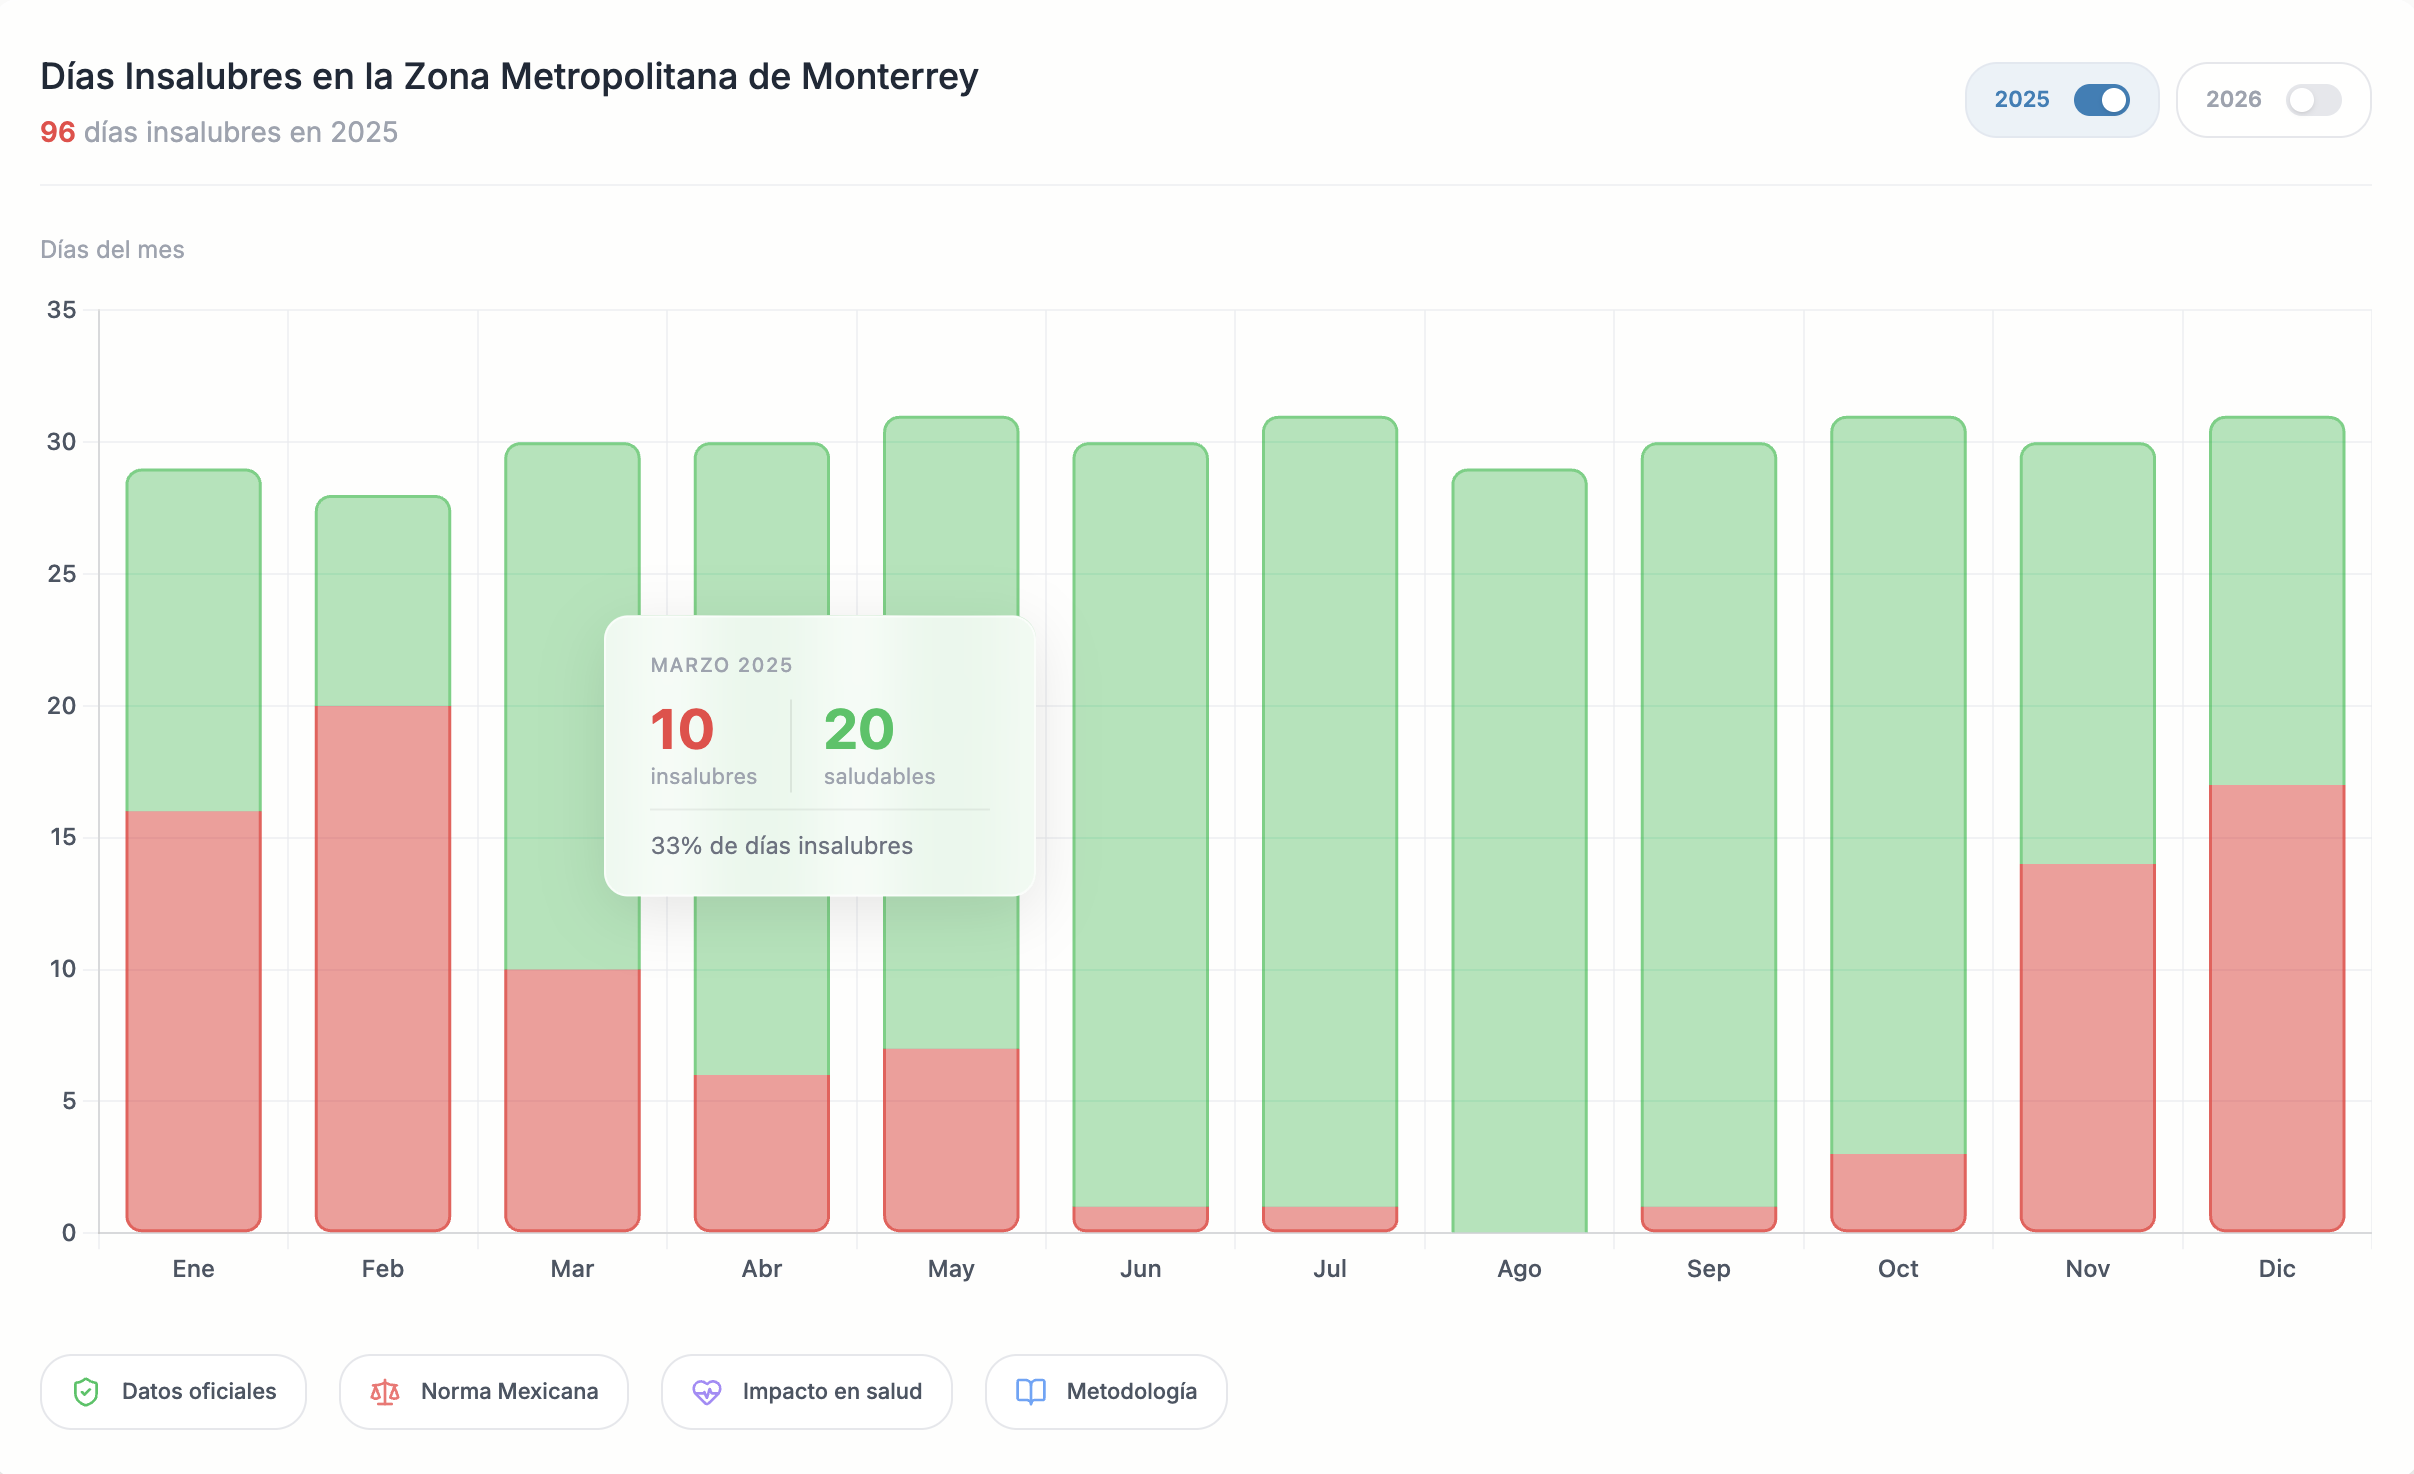
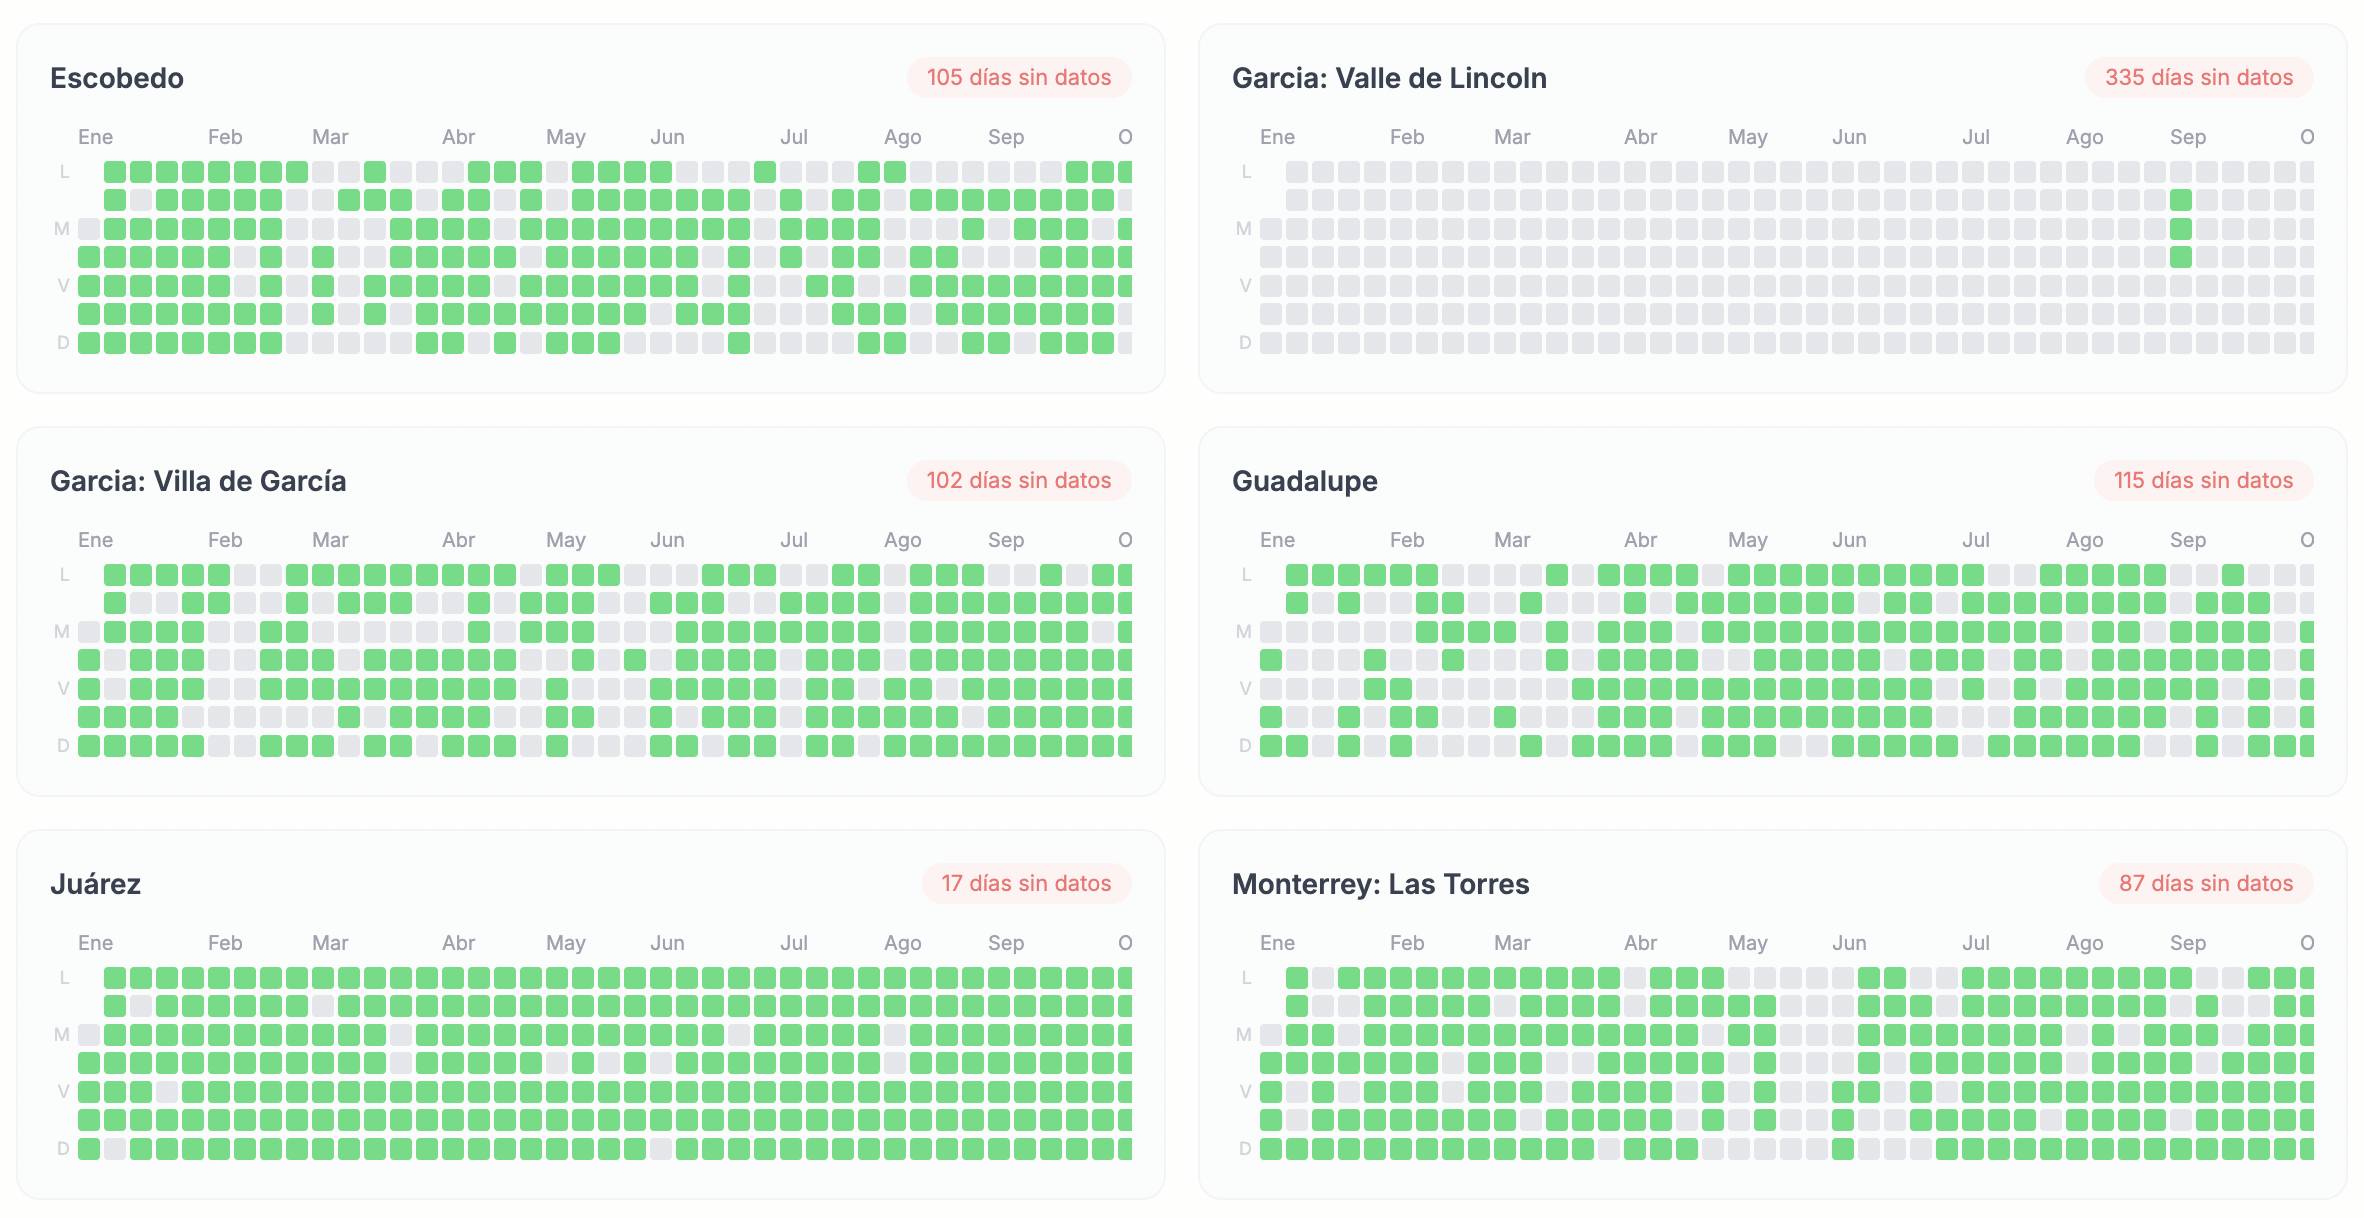
Add projects section to home page with OCCAMM as first project
- New alternating card layout with image carousel and gradient bg
- ProjectImage component for cycling multiple images per project
- OCCAMM project with description, subtitle, and 2 data screenshots

diff --git a/src/app/page.tsx b/src/app/page.tsx
@@ -1,111 +1,135 @@
 import Logo from "@/components/Logo";
 import GrainOverlay from "@/components/GrainOverlay";
+import ProjectImage from "@/components/ProjectImage";
 
 const projects = [
   {
     number: "01",
     tags: "Visualización de datos · Calidad del Aire",
-    title: "Observatorio del Aire",
-    client: "OCCAMM · Monterrey, México",
+    title: "OCCAMM",
+    subtitle: "Observatorio Ciudadano de la Calidad del Aire",
+    client: "OCCAMM",
     description:
-      "Los datos de calidad del aire en Monterrey eran públicos pero ilegibles. Desarrollamos la plataforma completa — sitio web, secciones de proyectos y publicaciones, y un dashboard de datos que traduce más de 90,000 mediciones de SINAICA en algo legible para cualquier ciudadano: ¿cuántos días al año respiras aire insalubre?",
+      "Plataforma web que visualiza y comunica datos de calidad del aire a través de dashboards, infografías y artículos de investigación.",
     stats: [
       { value: "+5,200", label: "visitantes" },
-      { value: "15", label: "estaciones" },
       { value: "90,000+", label: "mediciones" },
     ],
-    href: "https://www.observatoriodelaire.com/datos",
-    external: true,
-    image: "/observatorio-del-aire.png",
-    imageAlt: "Observatorio del Aire — gráfica de días insalubres por mes",
-  },
-  {
-    number: "02",
-    tags: "Mapa interactivo · Tiempo real",
-    title: "Aire Claro",
-    client: "OCCAMM · Monterrey, México",
-    description:
-      "Las estaciones oficiales miden el historial — pero no te dicen qué hacer ahora. Aire Claro es un mapa en tiempo real de más de 50 sensores ciudadanos Purple Air distribuidos por la ZMM, con recomendaciones de salud basadas en el Índice de Calidad del Aire.",
-    stats: [
-      { value: "+9,500", label: "visitantes" },
-      { value: "50+", label: "sensores" },
-      { value: "2M+", label: "mediciones" },
+    href: "https://www.observatoriodelaire.com/",
+    images: [
+      { src: "/occamm-1.png", alt: "OCCAMM — días insalubres por mes" },
+      { src: "/occamm-2.png", alt: "OCCAMM — disponibilidad de datos Monterrey Obispado" },
     ],
-    href: "https://www.aireclaro.com/",
-    external: true,
-    image: "/aire-claro.png",
-    imageAlt: "Aire Claro — mapa de sensores de calidad del aire en Monterrey",
-  },
-  {
-    number: "03",
-    tags: "Cartografía · Género y territorio",
-    title: "Territoria",
-    client: "Georregias · Monterrey, México",
-    description:
-      "Los reportes oficiales de violencia de género en Monterrey no reflejaban lo que las mujeres vivían en la calle. Construimos un mapa interactivo con 4 capas de datos — reportes 911, encuestas ciudadanas, zonas de riesgo y zonas seguras — para comparar el dato oficial con la experiencia real de quienes transitan la ciudad.",
-    stats: [
-      { value: "4", label: "capas de datos" },
-      { value: "2", label: "fuentes" },
-      { value: "ZMM", label: "cobertura" },
-    ],
-    href: "/georregias",
-    external: true,
-    image: "/georregias.jpg",
-    imageAlt: "Georregias — presentación del mapa Datos + Territorio",
   },
 ];
 
 export default function Home() {
   return (
-    <div className="min-h-screen grid md:grid-cols-[1.2fr_0.8fr]">
+    <div>
 
-      {/* Left column — nav + copy */}
-      <div
-        className="relative flex flex-col overflow-hidden md:min-h-screen"
-        style={{
-          background: "radial-gradient(ellipse at 20% 80%, rgba(6,182,212,0.18) 0%, transparent 55%), radial-gradient(ellipse at 80% 10%, rgba(139,92,246,0.14) 0%, transparent 55%), #f9f7f4",
-        }}
-      >
-        <GrainOverlay />
+      {/* Hero — split screen */}
+      <div className="min-h-screen grid md:grid-cols-[1.2fr_0.8fr]">
 
-        {/* Nav */}
-        <header className="relative z-10 flex items-center justify-between px-6 md:px-10 py-7">
-          <Logo size="text-xl" />
-        </header>
+        {/* Left column — nav + copy */}
+        <div
+          className="relative flex flex-col overflow-hidden md:min-h-screen"
+          style={{
+            background: "radial-gradient(ellipse at 20% 80%, rgba(6,182,212,0.18) 0%, transparent 55%), radial-gradient(ellipse at 80% 10%, rgba(139,92,246,0.14) 0%, transparent 55%), #f9f7f4",
+          }}
+        >
+          <GrainOverlay />
 
-        {/* Copy */}
-        <div className="relative z-10 flex flex-col justify-end flex-1 px-6 md:px-10 pt-4 pb-12 md:pt-0 md:pb-16">
-          <div className="w-fit">
-<h1 className="text-5xl sm:text-5xl md:text-7xl font-semibold text-[#0f172a] leading-[1.05] tracking-tight">
-              Datos para organizaciones que transforman su <span className="logo-comun">comunidad</span>
-            </h1>
-            <p className="mt-5 text-base md:text-lg text-[#475569] leading-relaxed text-balance">
-              Somos un estudio de visualización de datos que convierte información compleja en herramientas claras, visuales y accionables.
-            </p>
-          </div>
-          <div className="mt-12 md:mt-16">
-            <p className="text-xs text-[#888888] uppercase tracking-widest mb-2">Hablemos.</p>
-            <a
-              href="mailto:hola@datacomun.com"
-              className="cta-border inline-flex items-center gap-3 text-[#0f172a] font-medium text-base md:text-lg border-b-2 pb-1 cursor-default"
-            >
-              hola@datacomun.com
-            </a>
+
+          {/* Nav */}
+          <header className="relative z-10 flex items-center justify-between px-6 md:px-10 py-7">
+            <Logo size="text-xl" />
+          </header>
+
+          {/* Copy */}
+          <div className="relative z-10 flex flex-col justify-end flex-1 px-6 md:px-10 pt-4 pb-12 md:pt-0 md:pb-16">
+            <div className="w-fit">
+              <h1 className="text-5xl sm:text-5xl md:text-7xl font-semibold text-[#0f172a] leading-[1.05] tracking-tight">
+                Datos para organizaciones que transforman su <span className="logo-comun">comunidad</span>
+              </h1>
+              <p className="mt-5 text-base md:text-lg text-[#475569] leading-relaxed text-balance">
+                Somos un estudio de visualización de datos que convierte información compleja en herramientas claras, visuales y accionables.
+              </p>
+            </div>
+            <div className="mt-12 md:mt-16">
+              <p className="text-xs text-[#888888] uppercase tracking-widest mb-2">Hablemos.</p>
+              <a
+                href="mailto:hola@datacomun.com"
+                className="cta-border inline-flex items-center gap-3 text-[#0f172a] font-medium text-base md:text-lg border-b-2 pb-1 cursor-default"
+              >
+                hola@datacomun.com
+              </a>
+            </div>
           </div>
         </div>
+
+        {/* Right column — image */}
+        <div className="relative overflow-hidden min-h-[50vh] md:min-h-screen">
+          <img
+            src="/hero.jpg"
+            alt="datacomun — taller de datos con la comunidad"
+            className="w-full h-full object-cover object-[10%_center]"
+          />
+          <p className="absolute bottom-3 right-3 text-[10px] text-black/40 tracking-wide">
+            © Equipo de documentación LABNL
+          </p>
+        </div>
+
       </div>
 
-      {/* Right column — image */}
-      <div className="relative overflow-hidden min-h-[50vh] md:min-h-screen">
-        <img
-          src="/hero.jpg"
-          alt="datacomun — taller de datos con la comunidad"
-          className="w-full h-full object-cover object-[10%_center]"
-        />
-        <p className="absolute bottom-3 right-3 text-[10px] text-black/40 tracking-wide">
-          © Equipo de documentación LABNL
-        </p>
-      </div>
+      {/* Projects */}
+      <section className="py-32">
+        <h2 className="text-5xl md:text-6xl font-semibold text-[#0f172a] tracking-tight mb-24 px-6 md:px-10 text-center">Nuestro trabajo</h2>
+        <div className="flex flex-col gap-32 px-6 md:px-32">
+          {projects.map((project, i) => {
+            const isEven = i % 2 === 1;
+            const isExternal = project.href.startsWith("http");
+            return (
+              <div
+                key={project.number}
+                className={`flex flex-col md:flex-row items-stretch rounded-2xl overflow-hidden shadow-sm min-h-[560px] ${isEven ? "md:flex-row-reverse" : ""}`}
+              >
+                {/* Image */}
+                <div className="relative w-full md:w-1/2 aspect-[4/3] md:aspect-auto shrink-0">
+                  <ProjectImage images={project.images} />
+                </div>
+
+                {/* Text */}
+                <div
+                  className="relative w-full md:w-1/2 flex flex-col justify-center px-8 md:px-10 py-10"
+                  style={{
+                    background: "radial-gradient(ellipse at 20% 80%, rgba(6,182,212,0.18) 0%, transparent 55%), radial-gradient(ellipse at 80% 10%, rgba(139,92,246,0.14) 0%, transparent 55%), #f9f7f4",
+                  }}
+                >
+                  <GrainOverlay />
+                  <h2 className="text-3xl md:text-4xl font-semibold text-[#0f172a] tracking-tight leading-tight">
+                    {project.title}
+                  </h2>
+                  <p className="mt-1.5 text-base text-[#888888]">{project.subtitle}</p>
+                  <p className="mt-6 text-base text-[#475569] leading-relaxed">{project.description}</p>
+                  <div className="mt-8">
+                    <a
+                      href={project.href}
+                      target={isExternal ? "_blank" : undefined}
+                      rel={isExternal ? "noopener noreferrer" : undefined}
+                      className="cta-border inline-flex items-center gap-2 text-[#0f172a] font-medium text-sm border-b-2 pb-1"
+                    >
+                      Ver proyecto
+                      <svg width="11" height="11" viewBox="0 0 12 12" fill="none" aria-hidden>
+                        <path d="M2 10L10 2M10 2H4M10 2V8" stroke="currentColor" strokeWidth="1.5" strokeLinecap="round" strokeLinejoin="round"/>
+                      </svg>
+                    </a>
+                  </div>
+                </div>
+              </div>
+            );
+          })}
+        </div>
+      </section>
 
     </div>
   );

diff --git a/src/components/ProjectImage.tsx b/src/components/ProjectImage.tsx
@@ -1,0 +1,33 @@
+"use client";
+
+import { useEffect, useState } from "react";
+
+interface Props {
+  images: { src: string; alt: string }[];
+}
+
+export default function ProjectImage({ images }: Props) {
+  const [current, setCurrent] = useState(0);
+
+  useEffect(() => {
+    if (images.length < 2) return;
+    const id = setInterval(() => {
+      setCurrent((c) => (c + 1) % images.length);
+    }, 4000);
+    return () => clearInterval(id);
+  }, [images.length]);
+
+  return (
+    <div className="relative w-full h-full">
+      {images.map((img, i) => (
+        <img
+          key={img.src}
+          src={img.src}
+          alt={img.alt}
+          className="absolute inset-0 w-full h-full object-cover transition-opacity duration-1000"
+          style={{ opacity: i === current ? 1 : 0 }}
+        />
+      ))}
+    </div>
+  );
+}
